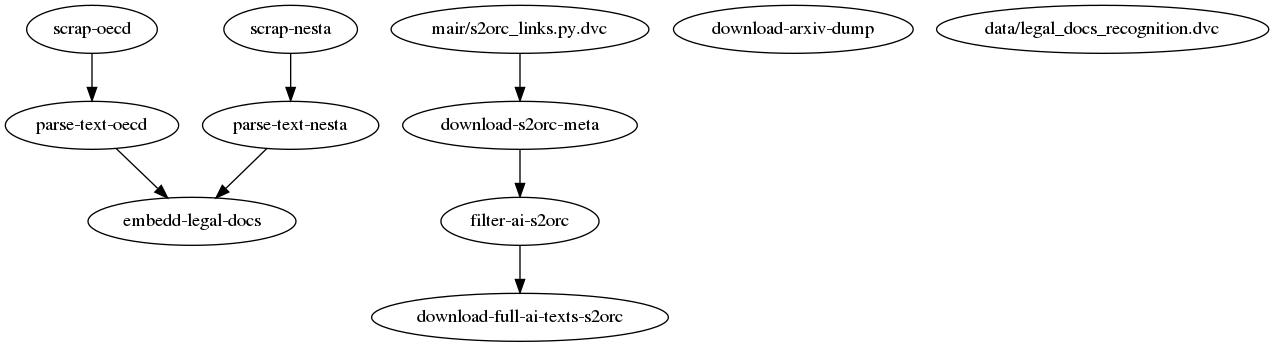
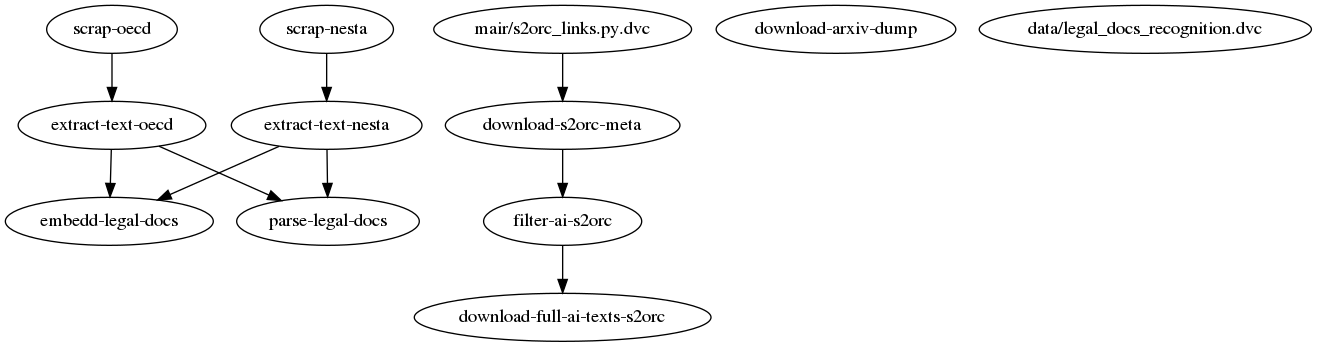
Coreference resulotion added to pipeline

diff --git a/scripts/process_legal_docs_spacy.py b/scripts/process_legal_docs_spacy.py
@@ -1,0 +1,21 @@
+"""Process raw texts through spacy nlp engine, extracting trees and coreferences resolutions. Results are saved to OUT"""
+import joblib
+import neuralcoref
+import spacy
+from mair.data_loading import load_legal_documents
+from mair.read_write_utilities import ensure_dirs_exist
+from tqdm import tqdm
+
+OUT = "data/processed/intermediate/parsed_legal_texts.joblib"
+
+ensure_dirs_exist(OUT)
+nlp = spacy.load("en_core_web_sm")
+nlp.max_length = 3000000
+coref = neuralcoref.NeuralCoref(nlp.vocab)
+nlp.add_pipe(coref, name="neuralcoref")
+
+
+texts = load_legal_documents()
+results = {t: nlp(text) for t, text in tqdm(texts.items())}
+
+joblib.dump(results, OUT)

diff --git a/mair/read_write_utilities.py b/mair/read_write_utilities.py
@@ -1,10 +1,14 @@
 """Saving and loading utilities"""
 
 import glob
-import os.path
-from typing import List
+import os
 
 import pandas as pd
+
+
+def ensure_dirs_exist(path):
+    """Create all directories that lead to file if they dont exist"""
+    os.makedirs(os.path.dirname(path), exist_ok=True)
 
 
 def load_texts_as_df(input_file_pattarn: str) -> pd.DataFrame:

diff --git a/mair/data_loading.py b/mair/data_loading.py
@@ -45,6 +45,7 @@ def load_golden_dataset() -> List[Dict[str, str]]:
 
 
 def load_legal_documents():
+    """Load text extracted from nesta and oecd"""
     a = glob(os.path.join(OECD_TEXTS_PATH, "*")) + glob(
         os.path.join(NESTA_TEXTS_PATH, "*")
     )
